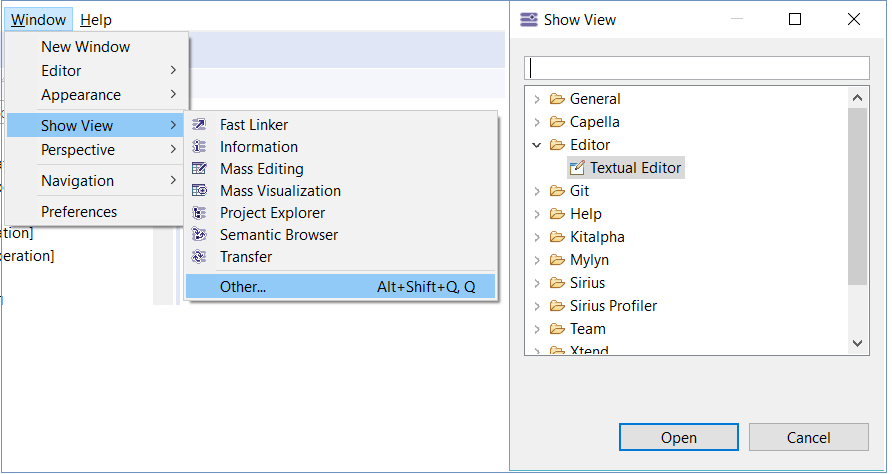
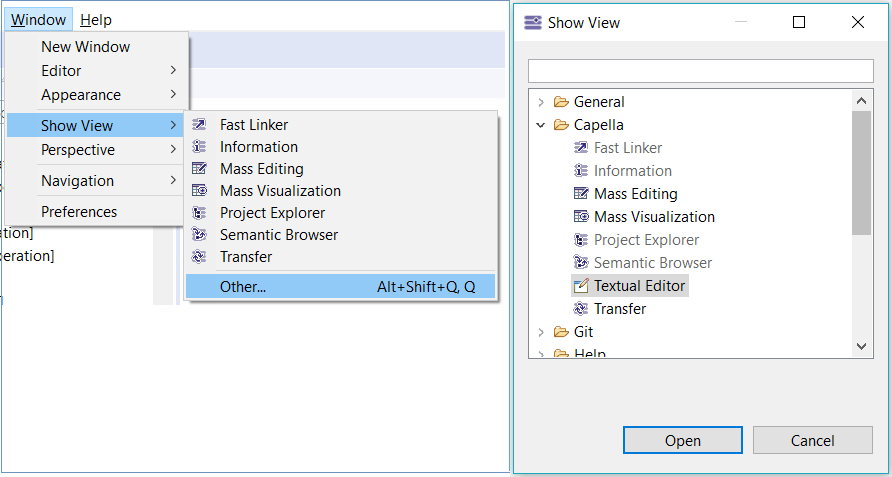
[567448] Do not open Textual Editor by default

diff --git a/plugins/org.polarsys.capella.scenario.editor.doc/html/TextualEditor/Functionalities.html b/plugins/org.polarsys.capella.scenario.editor.doc/html/TextualEditor/Functionalities.html
@@ -6,17 +6,23 @@
 	</head>
 	<body>
 		<h1 id="Functionalities">Functionalities</h1>
-		<p>Once the Textual Scenario Add-On is installed, you will be able to edit scenarios in textual mode.</p>
+		<p>Once the Textual Editor Add-On is installed, the user will be able to edit scenarios in textual mode.</p>
 		<h2 id="Textual_Editor_View">Textual Editor View</h2>
-		<p>When creating a new scenario diagram (OES, OAS, IS, FS, ES), the editor is displayed as a separate view. The user shall be able to edit a scenario in the embedded Textual Editor.
-			If the user has multiple Capella Scenario Diagrams opened, when switching tabs to another Scenario Diagram, the text editor will update with the content from the new diagram and the editor will be linked to the new diagram.
+		<p>The embedded Textual Editor can be opened from the View menu bar, as in the image below:
 
 			<br/>
-			The embedded Textual Editor can also be opened from the View menu bar:
 
 			<br/>
 
 			<img height="350" width="650" border="0" src="Images/View_TextualEditor.png"/>
+
+			<br/>
+
+			<br/>
+			After the embedded Textual Editor is activated from the View menu bar, when opening a new scenario diagram (OES, OAS, IS, FS, ES), the editor view will display the textual content of the associated Capella scenario and the user shall be able to edit a scenario.
+			If the user has multiple Capella scenario diagrams opened, when switching tabs to another scenario diagram, the text editor will be updated with the content from the new diagram and the editor will be linked to the new diagram.
+
+			<br/>
 		</p>
 		<h2 id="Syntax_for_the_Textual_Editor">Syntax for the Textual Editor</h2>
 		<p>The syntax supported in the textual editor for IS, FS, ES Capella Scenarios is presented in the following paragraphs.</p>
